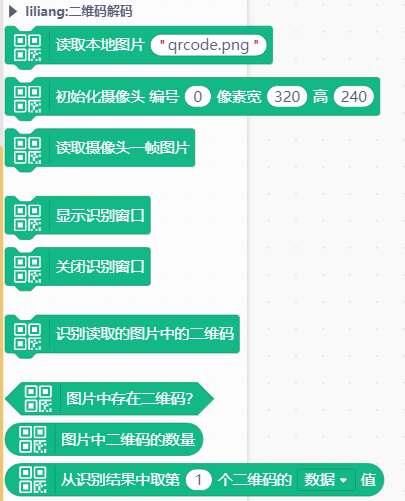
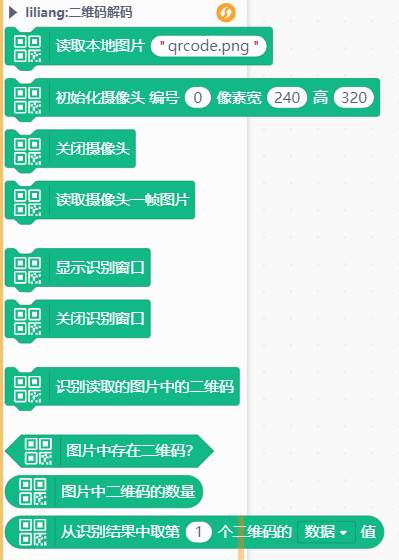
0.0.5

diff --git a/python/main.ts b/python/main.ts
@@ -43,12 +43,14 @@ else:
         
     Generator.addCode(`cv2.setWindowProperty("qrwindows", cv2.WND_PROP_FULLSCREEN, cv2.WINDOW_FULLSCREEN)`)
     }
-    //% block=""Close the camera" blockType="command"
+
+    //% block="Close the camera" blockType="command"
     export function colsecapcapture(parameter: any, block: any) {
        
         Generator.addCode(`cap.release()`)
 
     }
+    
     //% block="Read a frame from the camera" blockType="command"
     export function readcapcapture(parameter: any, block: any) {
         Generator.addImport(`import cv2\nimport numpy as np\nfrom pyzbar.pyzbar import decode`)

diff --git a/README.md b/README.md
@@ -93,4 +93,6 @@ MIT
 
 * V0.0.3  解决摄像头显示问题（行空板）
 
-* V0.0.3  调整窗口显示生成代码,多语言处理
+* V0.0.4  调整窗口显示生成代码,多语言处理
+
+* V0.0.5  解决关闭摄像头积木缺失问题
